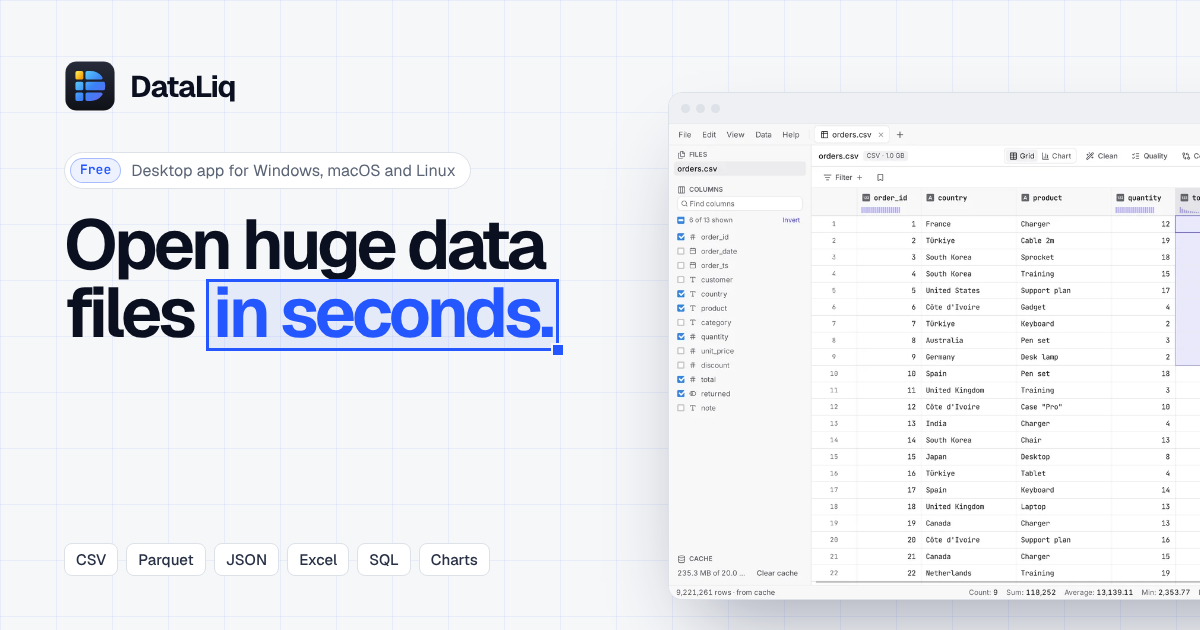
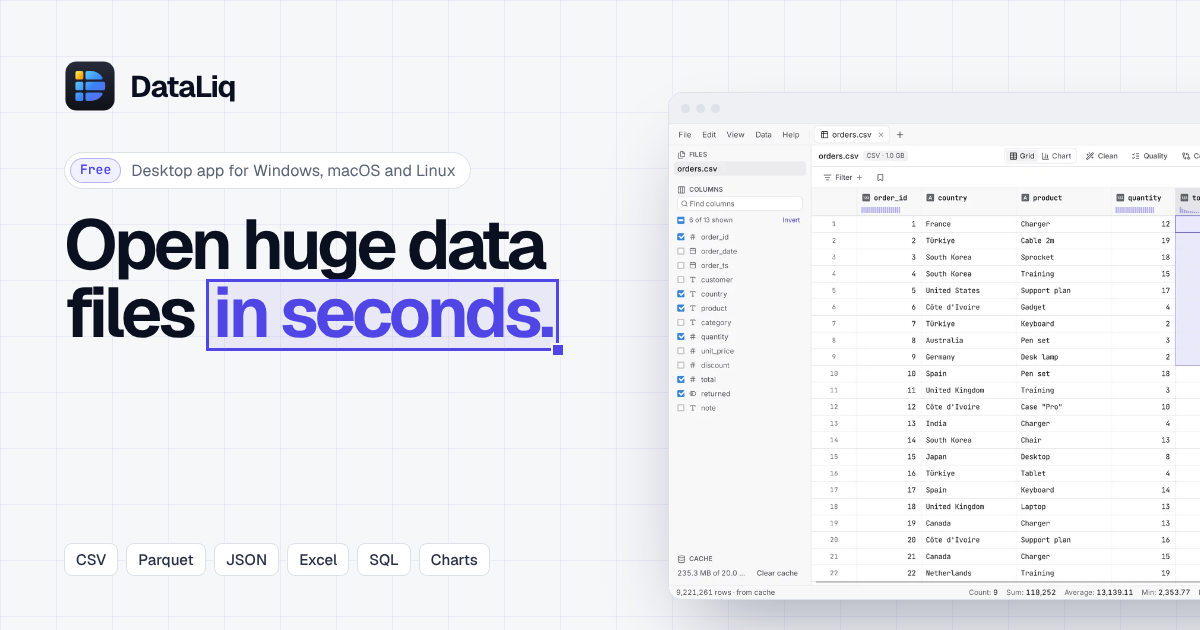
Use the app's indigo as the website's brand colour
The site's accent was a bright blue that didn't match the app. It now uses
the app's own --accent from src/styles/tokens.css: #4f46e5 in the light
theme and #818cf8 in the dark, with the app's hover shades, so the page
matches the indigo in the screenshots. The always-dark speed section uses
the dark indigo, the progress line runs through the icon's cyan, blue and
indigo, and the 404 page, share image, theme-color and manifest follow.
Every text and button pairing passes WCAG AA.

Changed region(s): [[0.1542, 0.4222, 0.4933, 0.573]]

diff --git a/website/css/site.css b/website/css/site.css
@@ -36,11 +36,11 @@
   --faint: #8a92a3;
   --line: #dde1e8;
   --line-2: #e8ebf0;
-  --grid: rgb(36 87 255 / 0.07);
-  --accent: #2457ff;
-  --accent-hover: #1a45d6;
+  --grid: rgb(79 70 229 / 0.07);
+  --accent: #4f46e5;
+  --accent-hover: #4338ca;
   --accent-ink: #ffffff;
-  --accent-soft: rgb(36 87 255 / 0.08);
+  --accent-soft: rgb(79 70 229 / 0.08);
   --shadow: 0 30px 70px -28px rgb(15 25 60 / 0.35), 0 10px 24px -16px rgb(15 25 60 / 0.2);
   --shadow-sm: 0 8px 24px -14px rgb(15 25 60 / 0.3);
 }
@@ -56,11 +56,11 @@
   --faint: #6c7486;
   --line: #222938;
   --line-2: #1a2030;
-  --grid: rgb(124 156 255 / 0.07);
-  --accent: #7c9cff;
-  --accent-hover: #a2b9ff;
+  --grid: rgb(129 140 248 / 0.07);
+  --accent: #818cf8;
+  --accent-hover: #a5b4fc;
   --accent-ink: #090c13;
-  --accent-soft: rgb(124 156 255 / 0.13);
+  --accent-soft: rgb(129 140 248 / 0.13);
   --shadow: 0 30px 70px -28px rgb(0 0 0 / 0.8), 0 10px 24px -16px rgb(0 0 0 / 0.6);
   --shadow-sm: 0 8px 24px -14px rgb(0 0 0 / 0.7);
 }
@@ -78,11 +78,11 @@
     --faint: #6c7486;
     --line: #222938;
     --line-2: #1a2030;
-    --grid: rgb(124 156 255 / 0.07);
-    --accent: #7c9cff;
-    --accent-hover: #a2b9ff;
+    --grid: rgb(129 140 248 / 0.07);
+    --accent: #818cf8;
+    --accent-hover: #a5b4fc;
     --accent-ink: #090c13;
-    --accent-soft: rgb(124 156 255 / 0.13);
+    --accent-soft: rgb(129 140 248 / 0.13);
   }
 }
 
@@ -417,7 +417,7 @@ code {
   bottom: -1px;
   height: 2px;
   border-radius: 2px;
-  background: linear-gradient(90deg, #22d3ee, var(--accent), #6366f1);
+  background: linear-gradient(90deg, #67e8f9, #3b82f6 45%, var(--accent));
   transform-origin: 0 50%;
   transform: scaleX(var(--p, 0));
 }
@@ -909,9 +909,11 @@ code {
   --s-fg: #eef1f8;
   --s-muted: #9aa3b6;
   --s-line: rgb(255 255 255 / 0.1);
+  --accent: #818cf8;
+  --accent-soft: rgb(129 140 248 / 0.14);
   margin-top: clamp(72px, 9vw, 120px);
   background:
-    radial-gradient(900px 420px at 85% -10%, rgb(54 98 255 / 0.34), transparent 70%),
+    radial-gradient(900px 420px at 85% -10%, rgb(79 70 229 / 0.38), transparent 70%),
     radial-gradient(700px 360px at 0% 110%, rgb(34 211 238 / 0.12), transparent 70%), #080b14;
   color: var(--s-fg);
 }
@@ -922,7 +924,7 @@ code {
 .speed .eyebrow__ref {
   border-color: var(--s-line);
   background: rgb(255 255 255 / 0.04);
-  color: #8ea9ff;
+  color: #a5b4fc;
 }
 .speed .eyebrow__meta {
   color: var(--s-muted);
@@ -956,7 +958,7 @@ code {
   min-width: 72px;
   justify-content: center;
   border-right: 1px solid var(--s-line);
-  color: #8ea9ff;
+  color: #a5b4fc;
   font-weight: 700;
 }
 .fx__f {
@@ -1003,7 +1005,7 @@ code {
 .cell:focus-visible,
 .cell.is-on {
   background: rgb(255 255 255 / 0.035);
-  box-shadow: inset 0 0 0 2px #7c9cff;
+  box-shadow: inset 0 0 0 2px #818cf8;
 }
 .cell dt {
   color: var(--s-muted);
@@ -1020,7 +1022,7 @@ code {
 }
 .cell dd small {
   margin-left: 6px;
-  color: #8ea9ff;
+  color: #a5b4fc;
   font-size: 0.34em;
   font-weight: 600;
   letter-spacing: 0;
@@ -1301,7 +1303,7 @@ code {
   color: #6b7488;
 }
 .term .p {
-  color: #7c9cff;
+  color: #818cf8;
   font-weight: 700;
 }
 .term [data-type].is-typing::after {
@@ -1311,7 +1313,7 @@ code {
   height: 1.15em;
   margin-left: 2px;
   vertical-align: -0.2em;
-  background: #7c9cff;
+  background: #818cf8;
   animation: blink 1s steps(1) infinite;
 }
 @keyframes blink {

diff --git a/website/404.html b/website/404.html
@@ -24,10 +24,10 @@
         --ink: #0b1020;
         --muted: #5b6475;
         --line: #dde1e8;
-        --grid: rgb(36 87 255 / 0.07);
-        --accent: #2457ff;
+        --grid: rgb(79 70 229 / 0.07);
+        --accent: #4f46e5;
         --accent-ink: #ffffff;
-        --accent-soft: rgb(36 87 255 / 0.08);
+        --accent-soft: rgb(79 70 229 / 0.08);
       }
       @media (prefers-color-scheme: dark) {
         :root {
@@ -36,10 +36,10 @@
           --ink: #e9edf5;
           --muted: #98a0b0;
           --line: #222938;
-          --grid: rgb(124 156 255 / 0.07);
-          --accent: #7c9cff;
+          --grid: rgb(129 140 248 / 0.07);
+          --accent: #818cf8;
           --accent-ink: #090c13;
-          --accent-soft: rgb(124 156 255 / 0.13);
+          --accent-soft: rgb(129 140 248 / 0.13);
         }
       }
       body {

diff --git a/website/index.html b/website/index.html
@@ -8,8 +8,8 @@
       name="description"
       content="DataLiq is a free desktop app for Windows, macOS and Linux that opens multi-gigabyte CSV, Parquet, JSON and Excel files in about a second. Filter, query with SQL, chart, clean and export millions of rows. Fully offline."
     />
-    <meta name="theme-color" content="#f1f0ec" media="(prefers-color-scheme: light)" />
-    <meta name="theme-color" content="#0d0e11" media="(prefers-color-scheme: dark)" />
+    <meta name="theme-color" content="#f6f7f9" media="(prefers-color-scheme: light)" />
+    <meta name="theme-color" content="#090c13" media="(prefers-color-scheme: dark)" />
     <link rel="canonical" href="https://mukesh-devs.github.io/dataliq/" />
 
     <meta property="og:type" content="website" />

diff --git a/docs/DECISIONS.md b/docs/DECISIONS.md
@@ -1316,6 +1316,11 @@ labels are sentence case, and nothing is set in wide or spaced-out capitals.
   structure, a chart), each at the page's full width so the app reads at
   close to its real size, and each in light and dark to match the page's
   theme. The rest of the features are words in a table, not pictures.
+- **Colour.** The app's brand indigo, the same `--accent` as
+  `src/styles/tokens.css`: `#4f46e5` light and `#818cf8` dark, with the
+  app's hover shades. The screenshots are full of it (selections, the
+  profile histogram, the Run button), so the page and the product read as
+  one brand. Every text and button pairing passes WCAG AA.
 - **Type.** Geist for headings and text, tightly spaced at large sizes;
   JetBrains Mono (the app's data font) only for data: cell references, file
   names, sizes, code. Both are variable fonts (one file each, about 30 KB

diff --git a/CHANGELOG.md b/CHANGELOG.md
@@ -10,7 +10,8 @@ All notable changes to this project are documented here. The format follows
 
 - The website has a new design built on the spreadsheet idea: a hero on a cell grid where
   a highlighted cell follows the pointer, cell references as section labels, the speed
-  figures as cells, the other features as a table, a floating header, Geist type, and light
+  figures as cells, the other features as a table, a floating header, Geist type, the
+  app's indigo, and light
   and dark themes with a switch. Downloads are clearer: the file for your computer first,
   then a column for each system with its recommended file and its other files. Scrolling is
   smoother, with effects taken from spreadsheets: headings filled in by a dragged selection,

diff --git a/website/README.md b/website/README.md
@@ -52,6 +52,10 @@ scroll, the speed cells are selected one by one, the hero eases away, and the he
 box shows the cell reference of the section in view. With "reduce motion" set, none of this
 runs and everything is shown at once.
 
+The colour is the app's own indigo (`--accent` in `src/styles/tokens.css`): `#4f46e5` in
+the light theme and `#818cf8` in the dark, so the page matches the screenshots and the app.
+Change them together.
+
 Type is Geist (headings and text) with JetBrains Mono for data (file names, cell
 references); both are variable fonts under the SIL Open Font License, served from
 `assets/fonts/`. Light and dark themes follow the system until the visitor picks one with
